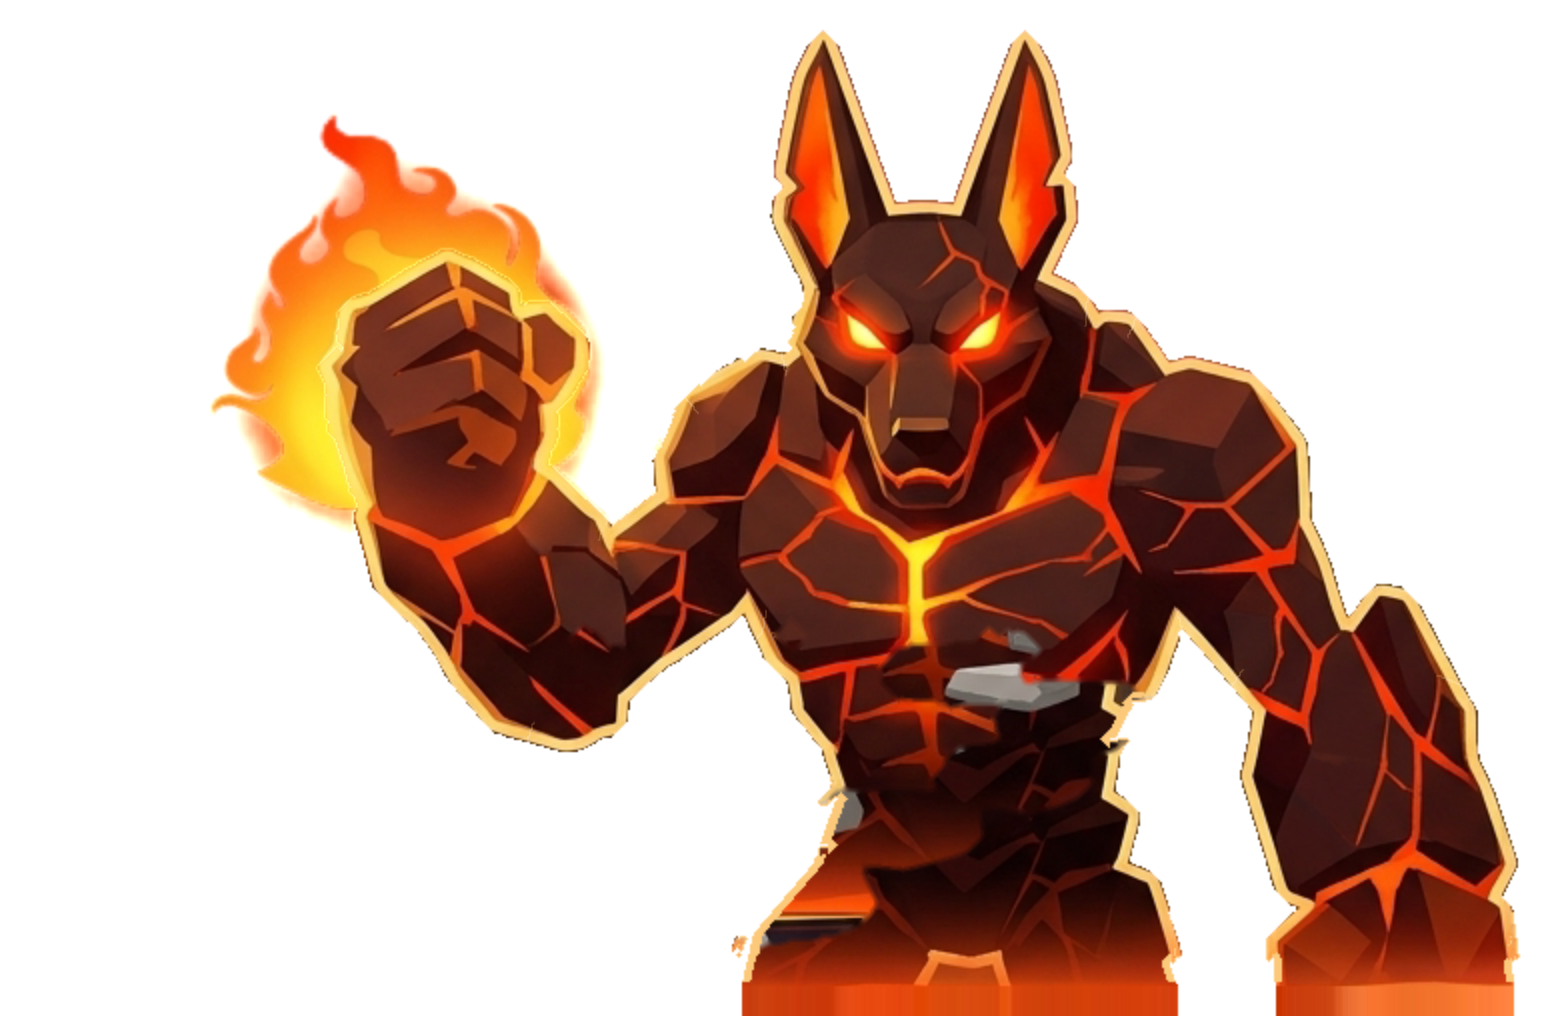
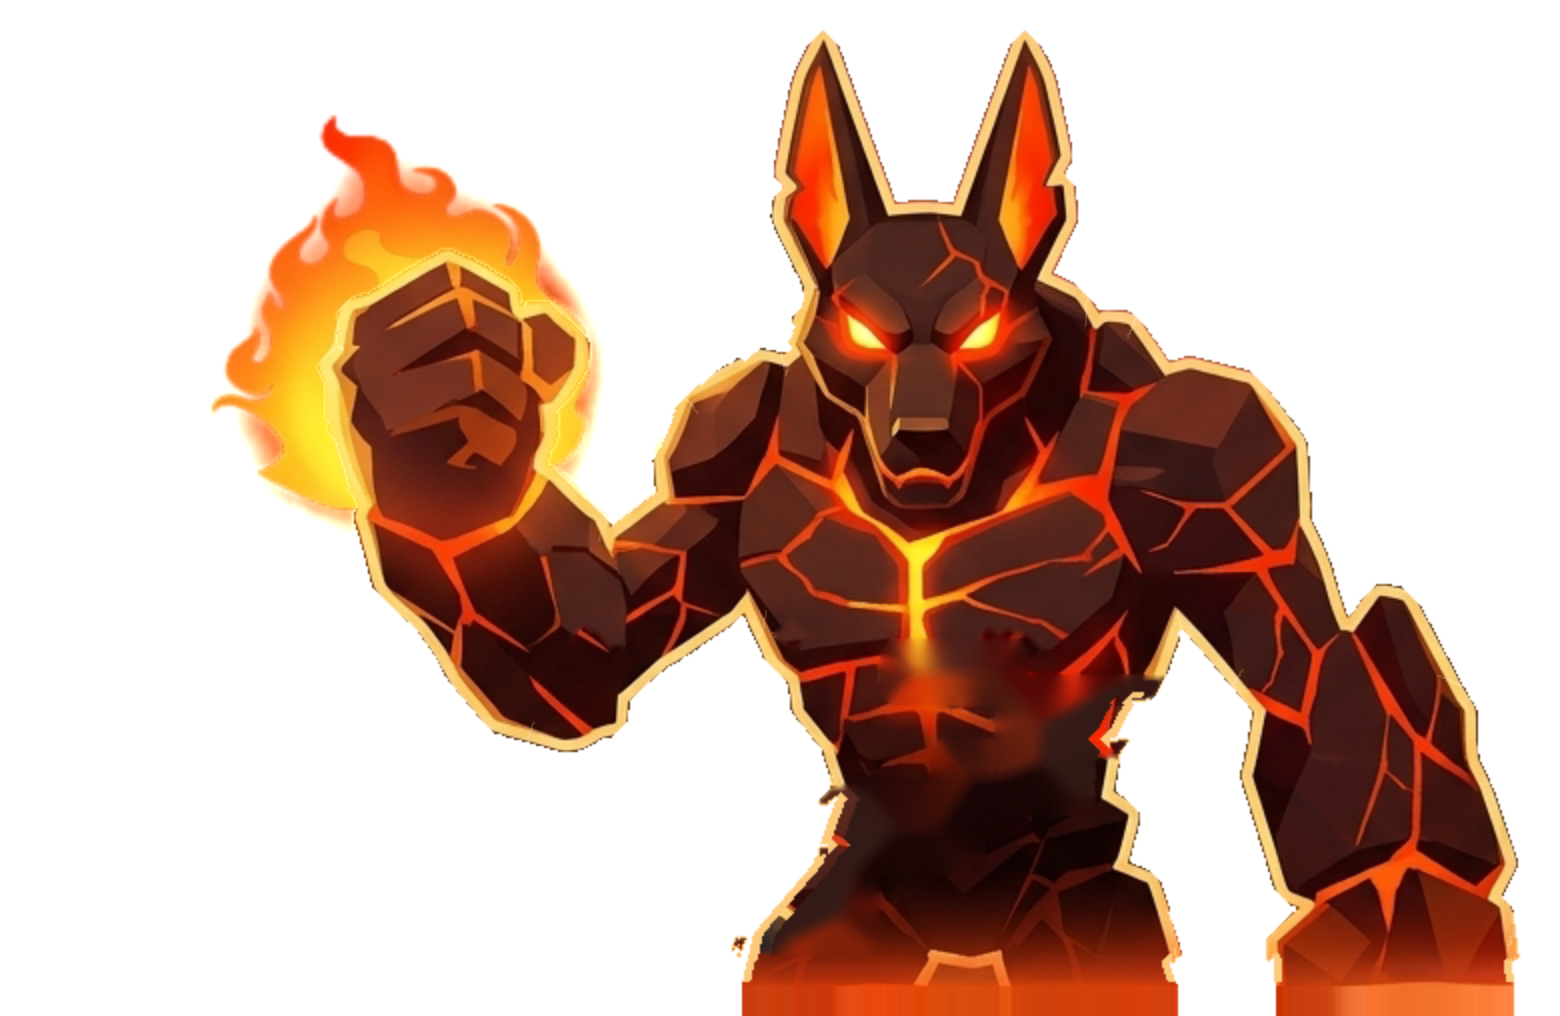
checker r2 iter 11: lift TARGET's slab ghost off the jackal's belly
Claude-Session: https://claude.ai/code/session_012LmehBPujySgAnyC4BLP3j

Changed region(s): [[0.4615, 0.6102, 0.7385, 0.9459]]

diff --git a/tools/beast_rig.py b/tools/beast_rig.py
@@ -46,6 +46,15 @@ BOX = (50, 40, 830, CUT + SINK)
 FIGURE_X = (140, 830)
 # Where TARGET's stones cross the body.
 STONE_BOX = [(330, 355), (648, 355), (648, 530), (330, 530)]
+INPAINT_STONES = True
+ROCK_DARK = (52, 26, 22)
+# Each of TARGET's slabs over the body, (x0, y0, x1, y1), read off a 3x crop
+# of TARGET.png. The grey test alone missed their orange-lit undersides and
+# left a slab's ghost on the belly, with a hard edge where the patch met it
+# (checker r2 iter 11: both critics' top MAJOR). Every pixel in these, a few
+# px grown, is stone whatever its colour.
+STONES = [(495, 364, 560, 388), (552, 382, 636, 415), (520, 414, 593, 443),
+          (440, 437, 538, 473), (335, 464, 485, 513)]
 SCALE = 2          # layers are drawn at 2x for a clean line in the fight
 HEIGHT = 1.90      # world height floor-to-ear-tip before _fit_height
 
@@ -148,7 +157,10 @@ def paint_hidden(T, m, line, walls):
     # by the cliff behind it, and patching it wrecked the far arm.
     stone = m & (mx - mn < 45) & (mx > 60) & poly_mask(STONE_BOX, m.shape)
     stone = ndi.binary_opening(stone, iterations=1)
-    stone = ndi.binary_dilation(stone, iterations=6) & m
+    rects = np.zeros_like(m)
+    for x0, y0, x1, y1 in STONES:
+        rects[y0:y1, x0:x1] = True
+    stone = (ndi.binary_dilation(stone, iterations=6) | ndi.binary_dilation(rects, iterations=3)) & m
     edge = m & ~ndi.binary_erosion(m, iterations=6)
     clean = m & ~stone & ~edge
     clean[CUT - 20:] = False
@@ -184,6 +196,19 @@ def paint_hidden(T, m, line, walls):
     patch = np.clip(out, 0, 255).astype(np.uint8)
     seam = ndi.binary_dilation(stone, iterations=2) & ~ndi.binary_erosion(stone, iterations=2) & m
     patch = cv2.inpaint(patch, seam.astype(np.uint8) * 255, 3, cv2.INPAINT_TELEA)
+    # The hand-picked slabs (STONES) are filled from the rock round them, not
+    # borrowed: a borrowed block brought its own seams and cracks and read as
+    # a pasted rectangle with a second sternum seam (r2 iter 11).
+    if INPAINT_STONES:
+        # The silhouette's gold line is kept out of the fill: masked to the
+        # rock's own dark tone while inpainting, so it cannot smear inward,
+        # then put back.
+        rim = m & ~ndi.binary_erosion(m, iterations=RIM + 3)
+        hard = ndi.binary_dilation(rects, iterations=5) & m & ~rim
+        src = patch.copy()
+        src[rim | ~m] = ROCK_DARK
+        filled = cv2.inpaint(src, hard.astype(np.uint8) * 255, 9, cv2.INPAINT_TELEA)
+        patch[hard] = filled[hard]
     out = patch.astype(float)
     # The silhouette's own line, wherever the cut-out has none (behind the
     # stones, where the walls run): a band as wide as TARGET's rim.

diff --git a/design/match-log/log.md b/design/match-log/log.md
@@ -90,3 +90,10 @@ Waiting for the builder's `## Round 2` heading.
 - Changed: the stones (A #2, B #1; tied with the hand on rank, picked as the one named MAJOR every iteration since 03). Measured each slab against TARGET in jackal heights (ears→lava, x from the head): they drew 0.04–0.11 too low and s3/s4 0.05–0.07 too far right, s0 0.25 too far left and 0.08 too wide. New `STAIRCASE.adjust` moves each climb point by its measured gap before the sight-line projection; widths of the two low slabs 0.305/0.28 → 0.25/0.23. After: every slab within ~0.04 of TARGET's spot, top slab at the sternum.
 - Tests: ALL TESTS PASSED. Playtest: the same pre-existing FAILs (route-reversal is TARGET's own zig at the top rung), nothing new.
 - Meshy: 0 credits.
+
+### iter 11
+- Critic A top 3: [MAJOR] a hard horizontal cut across the jackal's torso right of the stones; [MAJOR] white speckle fringe on the right forearm and round the fist; [MAJOR] stones a near-vertical stack, bottom two too small.
+- Critic B top 3: [MAJOR] sprite alpha: hard horizontal seam across the lower torso + white fringe on the forearm/fist; [MAJOR] HUD ~1.5–2x too big; [MAJOR] stones a short steep cluster.
+- Changed: the torso seam (both #1). It was the ghost of TARGET's own slab left on the belly by `tools/beast_rig.py` — its grey test missed the slabs' orange-lit undersides — with the borrowed patch beside it ending in a hard edge. New `STONES` in beast_rig.py: TARGET's five body slabs as hand-read rects, always counted as stone, and filled by inpainting from the rock round them with the gold rim masked out (borrowed blocks there read as pasted rectangles with a second sternum seam). Regenerated `cinder_jackal_2d.png` / `_torso.png`; the slab ghost and the seam are gone. The dotted speckle columns look like ember particles, not the sprite; left for now.
+- Tests: ALL TESTS PASSED. Art only.
+- Meshy: 0 credits.
